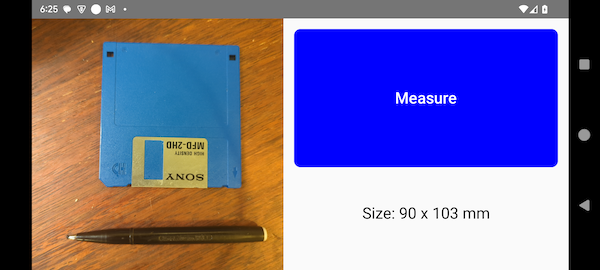
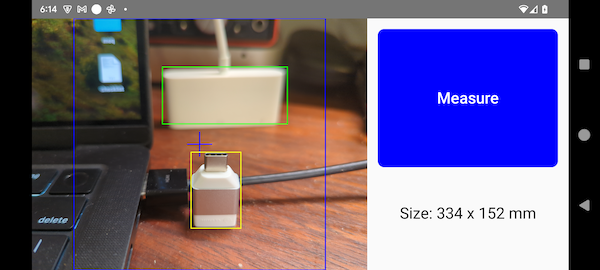
Update layout and screenshot

diff --git a/app/src/main/java/com/example/sizeestimator/presentation/SizeEstimatorScreen.kt b/app/src/main/java/com/example/sizeestimator/presentation/SizeEstimatorScreen.kt
@@ -8,6 +8,7 @@ import androidx.camera.core.ImageCaptureException
 import androidx.camera.core.Preview
 import androidx.camera.lifecycle.ProcessCameraProvider
 import androidx.camera.view.PreviewView
+import androidx.compose.foundation.background
 import androidx.compose.foundation.layout.Box
 import androidx.compose.foundation.layout.Row
 import androidx.compose.foundation.layout.aspectRatio
@@ -19,6 +20,7 @@ import androidx.compose.runtime.livedata.observeAsState
 import androidx.compose.runtime.remember
 import androidx.compose.ui.Modifier
 import androidx.compose.ui.draw.drawWithCache
+import androidx.compose.ui.graphics.Color
 import androidx.compose.ui.platform.LocalContext
 import androidx.compose.ui.unit.dp
 import androidx.compose.ui.viewinterop.AndroidView
@@ -78,8 +80,7 @@ fun SizeEstimatorScreen(viewModel: MainViewModel, trace: LiveData<MeasurementTra
 
             Box(
                 modifier = Modifier
-                    .weight(1F)
-                    .size(100.dp)
+                    .fillMaxSize()
             ) {
                 MeasureButtonPanel(
                     sizeText = viewModel.sizeText,
